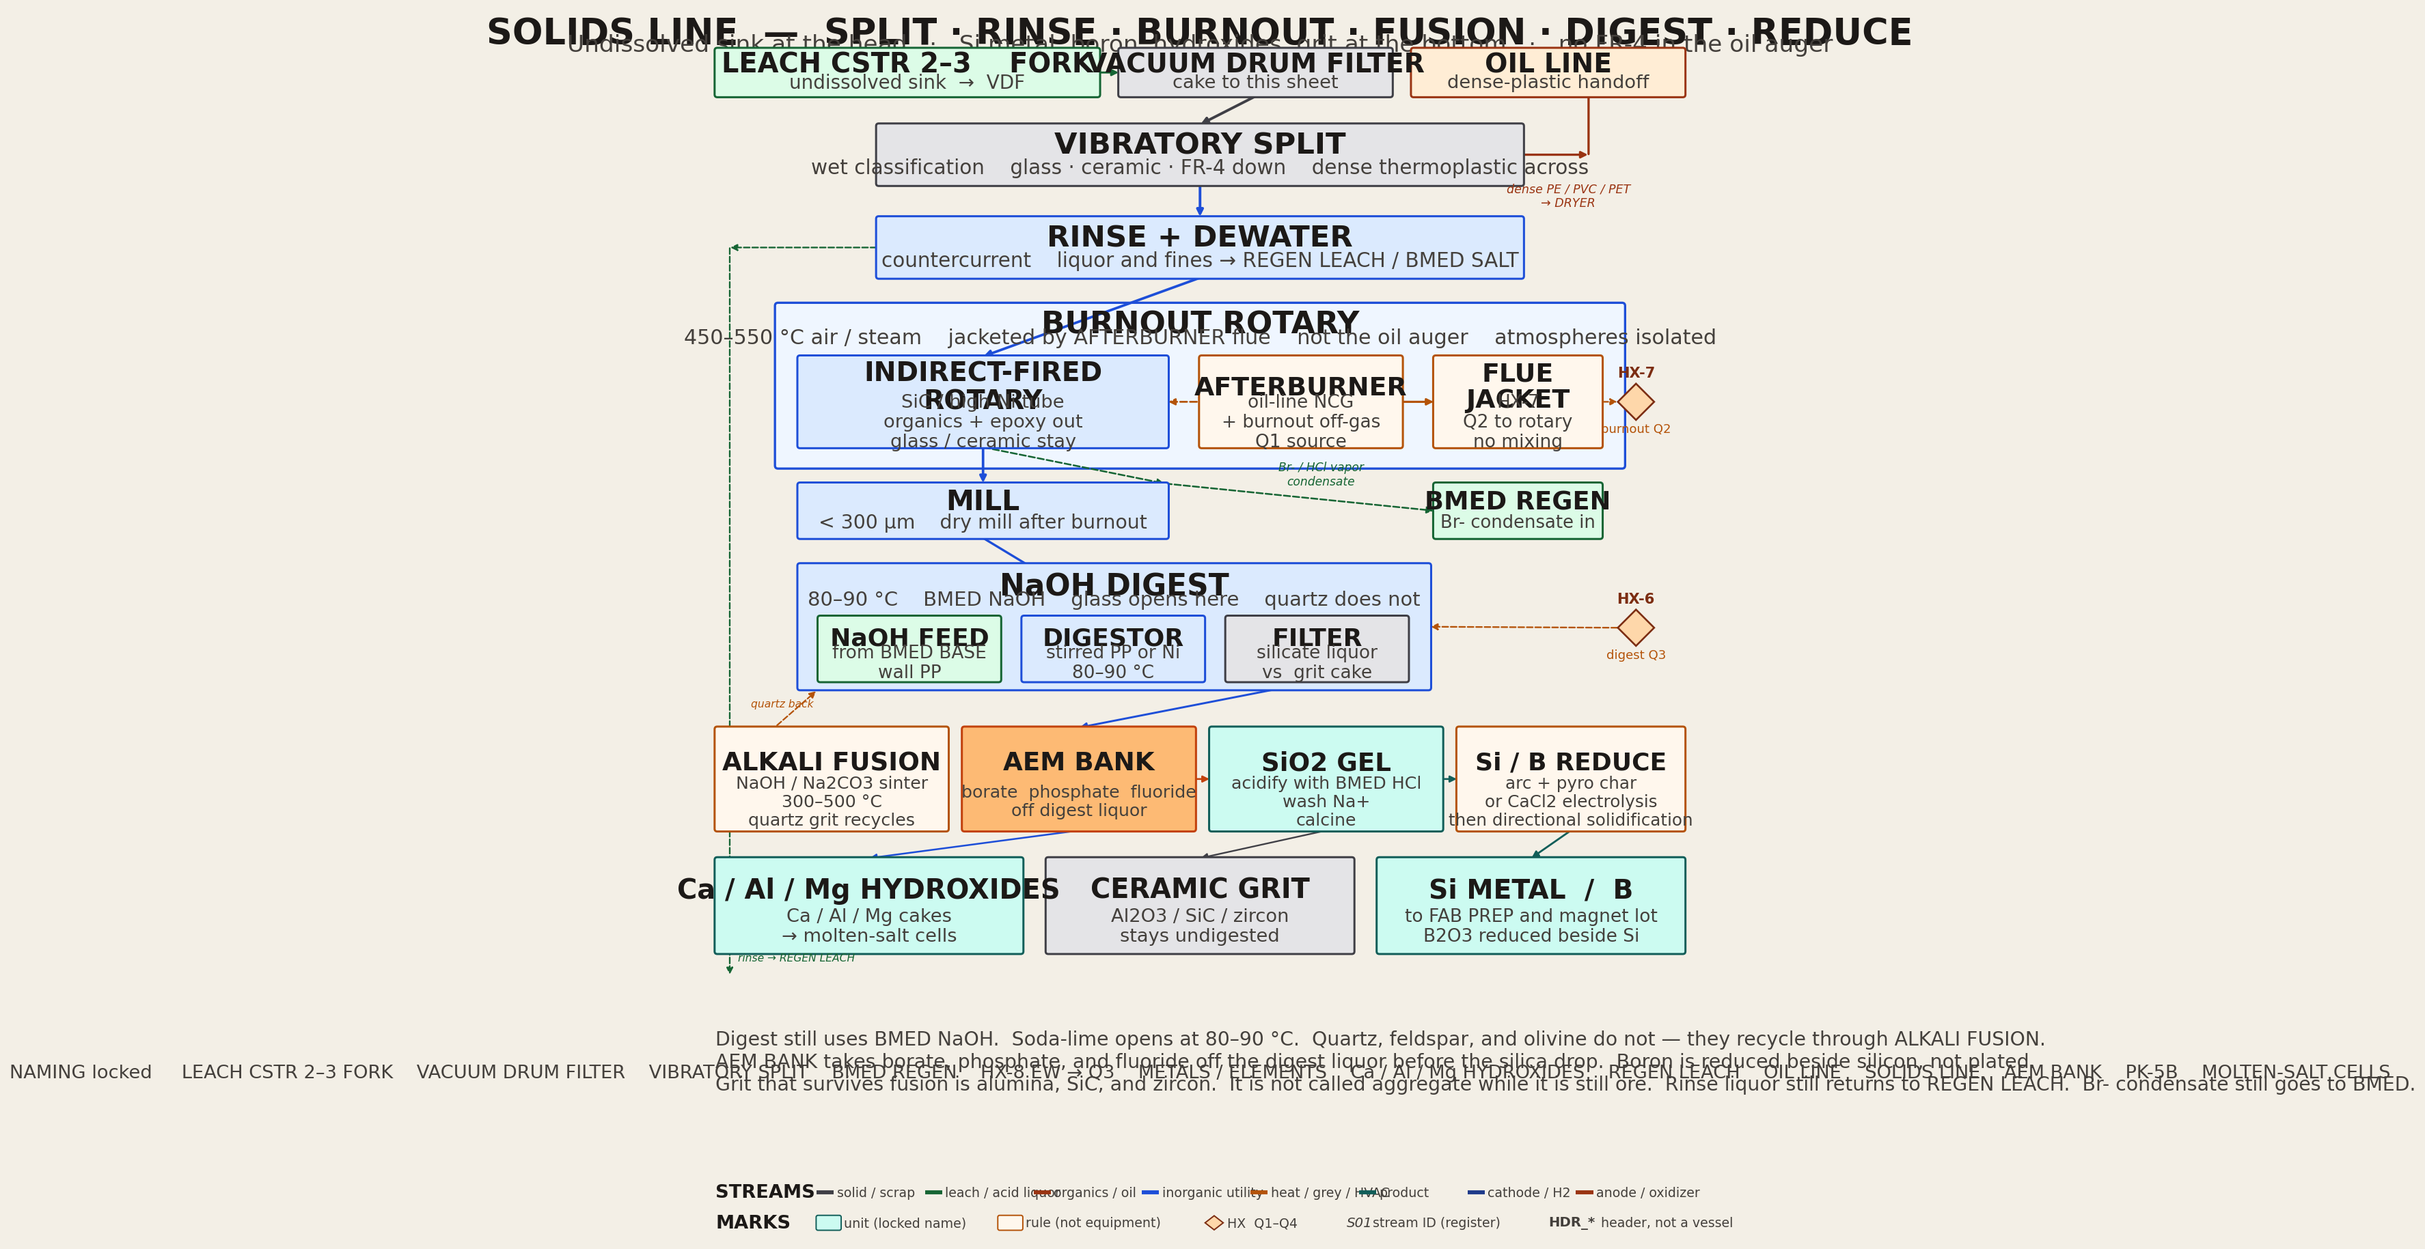
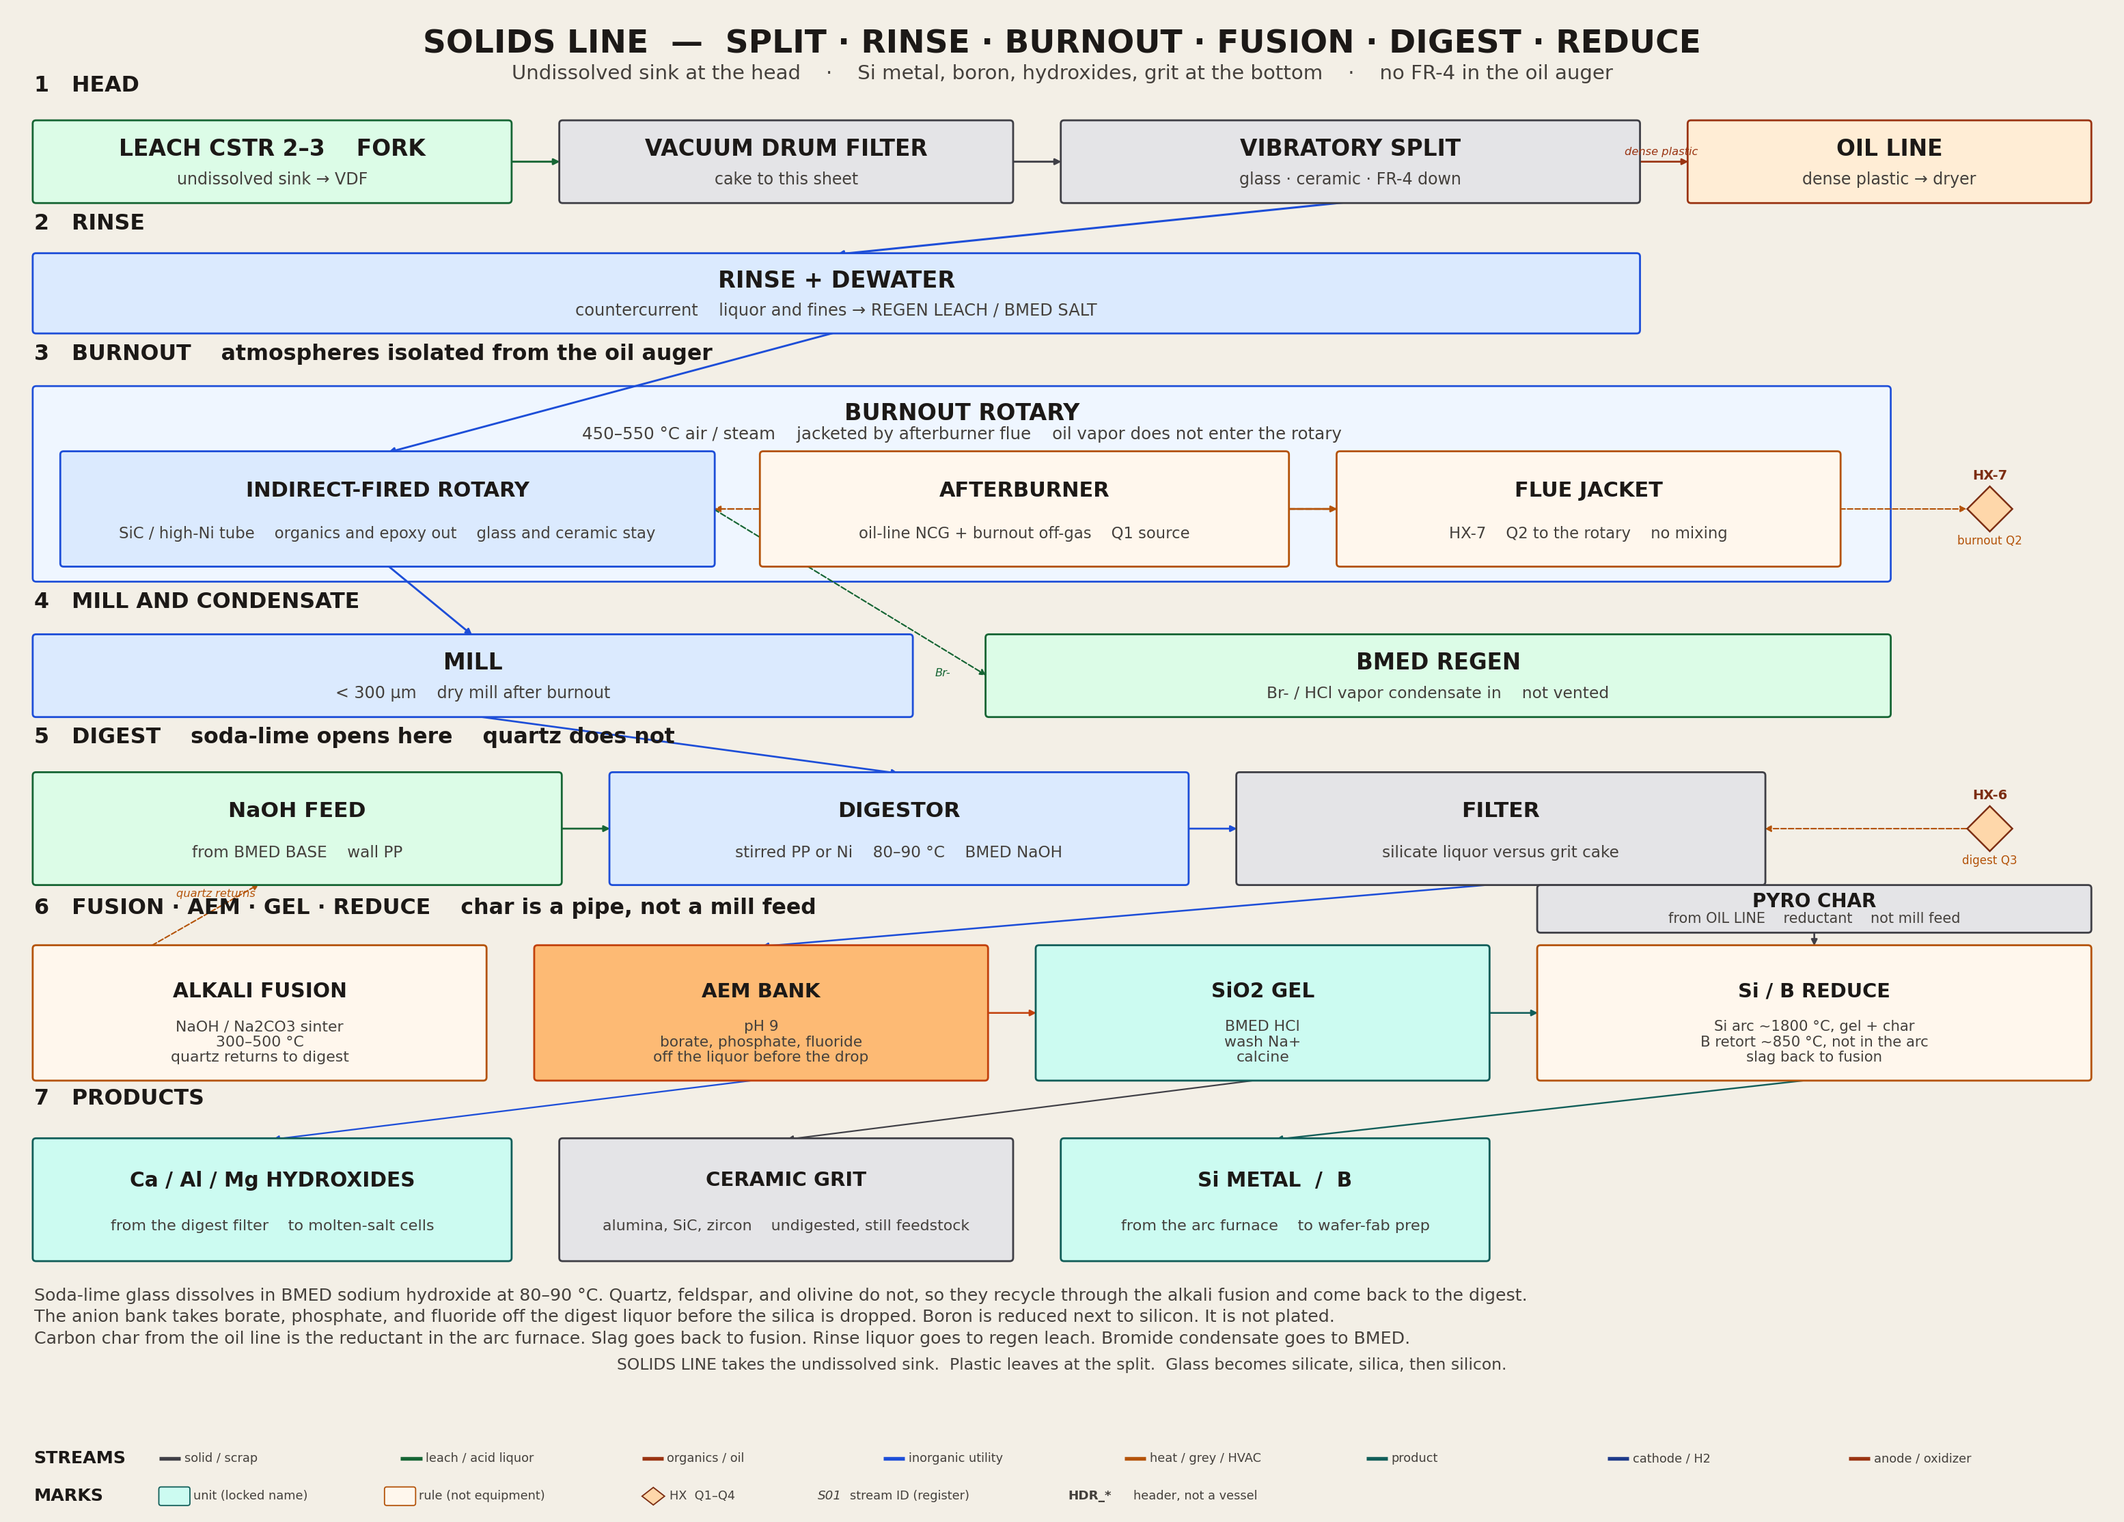
Split the silicon arc from the boron retort and the rare-earth retort from the chloride pots.
AQS-DUTY-007 defines CONC-ED, the solids line, the anion bank, the potassium split, the nitrogen scrub, PK-5B, the molten pots, and the two reduction vessels.

diff --git a/flow_graph/exporters/matplotlib/completion_pfd.py b/flow_graph/exporters/matplotlib/completion_pfd.py
@@ -1,0 +1,125 @@
+#!/usr/bin/env python3
+"""Completion sheet. CONC-ED and the units that were stubs on the trunk."""
+import sys
+from pathlib import Path
+sys.path.insert(0, str(Path(__file__).resolve().parent))
+
+import matplotlib.pyplot as plt
+import params as P
+from drawlib import box, cx, R, L, T, B, arrow, slabel, legend_strip
+
+fig, ax = plt.subplots(figsize=(34.0, 26.0), dpi=120)
+ax.set_xlim(0, 168)
+ax.set_ylim(-8.0, 124)
+ax.set_aspect("equal")
+ax.axis("off")
+fig.patch.set_facecolor(P.BG)
+ax.set_facecolor(P.BG)
+
+ax.text(84, 122.2, "CONC-ED  ·  SOLIDS LINE  ·  ANION AND METAL COMPLETION",
+        ha="center", va="top", fontsize=26, fontweight="bold", color=P.INK)
+ax.text(84, 119.2,
+        "Duties at the leach design point    2 m³/h at 2 g/L    concentrate 0.17 m³/h at 20 g/L",
+        ha="center", va="top", fontsize=15.5, color=P.MUTED)
+
+ax.text(2.0, 116.6, "1   CONC-ED    between the leach pump and EW-1    not an evaporator",
+        fontsize=17.2, fontweight="bold", color=P.INK)
+coal = box(ax, 2.0, 104.6, 38.0, 9.4, P.C_LE_F, P.C_LEACH, "COALESCER",
+           "CPVC    free oil off    no carbon", ts=16.6, ss=12.4)
+xf = box(ax, 44.0, 104.6, 40.0, 9.4, P.C_SOL_F, P.C_SOLID, "CROSSFLOW",
+         "alumina 0.2 µm    3 m/s\n25 m²    80 L/m²·h\ncake to sink dewater", ts=16.4, ss=12.2)
+stk = box(ax, 88.0, 104.6, 42.0, 9.4, P.C_CEM_F, P.C_CEM, "CEM STACK",
+          "20 pairs    0.25 m²\nTi / PbO2 anode\npH held under 1.5", ts=16.4, ss=12.2)
+ew = box(ax, 134.0, 104.6, 32.0, 9.4, P.C_PROD_F, P.C_PROD, "TO EW-1",
+         "0.17 m³/h at 20 g/L\n3.4 kg/h metal\n85 % of the cations", ts=16.2, ss=12.2)
+arrow(ax, R(coal), L(xf), P.C_LEACH, lw=1.5)
+arrow(ax, R(xf), L(stk), P.C_LEACH, lw=1.5)
+arrow(ax, R(stk), L(ew), P.C_PROD, lw=1.5)
+dil = box(ax, 88.0, 96.4, 42.0, 6.2, P.C_LE_F, P.C_LEACH, "DILUATE + dP BYPASS",
+          "both return to CSTR 1    CIP is BMED HCl only", ts=16.0, ss=12.2)
+arrow(ax, B(stk), T(dil), P.C_LEACH, lw=1.3, ls="--")
+
+ax.text(2.0, 93.8, "2   SOLIDS LINE    undissolved sink only",
+        fontsize=17.2, fontweight="bold", color=P.INK)
+rinse = box(ax, 2.0, 82.2, 30.0, 9.0, P.C_IN_F, P.C_INORG, "RINSE",
+            "liquor to regen leach", ts=16.4, ss=12.4)
+burn = box(ax, 36.0, 82.2, 32.0, 9.0, P.C_IN_F, P.C_INORG, "BURNOUT",
+           "450–550 °C    indirect\njacketed, not the oil pipe", ts=16.0, ss=12.0)
+mill = box(ax, 72.0, 82.2, 28.0, 9.0, P.C_IN_F, P.C_INORG, "MILL",
+           "dry    under 300 µm", ts=16.4, ss=12.4)
+dig = box(ax, 104.0, 82.2, 30.0, 9.0, P.C_LE_F, P.C_LEACH, "DIGEST",
+          "80–90 °C    BMED NaOH\nsoda-lime opens", ts=16.0, ss=12.0)
+fus = box(ax, 138.0, 82.2, 28.0, 9.0, P.C_HEAT_F, P.C_HEAT, "FUSION",
+          "300–500 °C sinter\nquartz recycles", ts=16.0, ss=12.0)
+arrow(ax, R(rinse), L(burn), P.C_INORG, lw=1.4)
+arrow(ax, R(burn), L(mill), P.C_INORG, lw=1.4)
+arrow(ax, R(mill), L(dig), P.C_INORG, lw=1.4)
+arrow(ax, R(dig), L(fus), P.C_HEAT, lw=1.3, ls="--")
+
+ax.text(2.0, 79.6, "3   AEM BANK    two feeds    arsenic does not enter",
+        fontsize=17.2, fontweight="bold", color=P.INK)
+brine = box(ax, 2.0, 66.8, 38.0, 10.2, P.C_LE_F, P.C_LEACH, "POST-POLISH BRINE",
+            "raise to pH 9 with BMED NaOH\nborate as B(OH)4−", ts=16.2, ss=12.2)
+sil = box(ax, 44.0, 66.8, 36.0, 10.2, P.C_IN_F, P.C_INORG, "DIGEST LIQUOR",
+          "already alkaline\nbefore the silica drop", ts=16.2, ss=12.2)
+aem = box(ax, 84.0, 66.8, 40.0, 10.2, P.C_AEM_F, P.C_AEM, "AEM STACK",
+          "PP frame    anion film\ndiluate to BMED salt", ts=16.2, ss=12.2)
+cuts = box(ax, 128.0, 66.8, 38.0, 10.2, P.C_PROD_F, P.C_PROD, "CUTS",
+           "B2O3 to the furnace\nphosphate to the farm\nfluoride to the HF cell", ts=15.6, ss=11.8)
+arrow(ax, R(brine), L(sil), P.C_LEACH, lw=1.3)
+arrow(ax, R(sil), L(aem), P.C_AEM, lw=1.4)
+arrow(ax, R(aem), L(cuts), P.C_PROD, lw=1.4)
+
+ax.text(2.0, 64.2, "4   K SPLIT    then N SCRUB",
+        fontsize=17.2, fontweight="bold", color=P.INK)
+ks = box(ax, 2.0, 52.4, 52.0, 9.2, P.C_LE_F, P.C_LEACH, "K SPLIT",
+         "PP crystallizer    5–10 °C\nKCl to the farm    NaCl liquor to BMED", ts=16.6, ss=12.4)
+ns = box(ax, 58.0, 52.4, 52.0, 9.2, P.C_SOL_F, P.C_SOLID, "N SCRUB",
+         "packed tower    BMED HCl\nNH3 to NH4Cl for the farm\nNOx stays on the alk scrubber", ts=16.2, ss=12.0)
+arrow(ax, (28.0, 61.6), T(ks), P.C_LEACH, lw=1.2)
+
+ax.text(2.0, 49.8, "5   PK-5B    batch lot    not a flow cell",
+        fontsize=17.2, fontweight="bold", color=P.INK)
+dis = box(ax, 2.0, 37.6, 38.0, 9.6, P.C_IN_F, P.C_INORG, "DISSOLVE",
+          "oxalate cake in BMED HCl", ts=16.4, ss=12.4)
+ds = box(ax, 44.0, 37.6, 40.0, 9.6, P.C_SOL_F, P.C_SOLID, "DOUBLE SULFATE",
+         "sulfate from the anion bank\nLa–Ce drops    Nd group stays", ts=16.2, ss=12.2)
+ox = box(ax, 88.0, 37.6, 40.0, 9.6, P.C_PROD_F, P.C_PROD, "OXALATE CUTS",
+         "stepped pH\nNd/Pr    then Dy/Tb\ncalcine to oxide", ts=16.2, ss=12.2)
+arrow(ax, R(dis), L(ds), P.C_INORG, lw=1.4)
+arrow(ax, R(ds), L(ox), P.C_PROD, lw=1.4)
+
+ax.text(2.0, 35.0, "6   MOLTEN SALT    three pots and one retort    not a series",
+        fontsize=17.2, fontweight="bold", color=P.INK)
+al = box(ax, 2.0, 21.4, 39.0, 11.0, P.C_HEAT_F, P.C_HEAT, "Al POT",
+         "calcine to alumina\nchar + Cl2 to AlCl3\nelectrolyze near 700 C", ts=15.8, ss=11.8)
+mg = box(ax, 44.0, 21.4, 39.0, 11.0, P.C_HEAT_F, P.C_HEAT, "Mg POT",
+         "dehydrate under HCl\nanhydrous MgCl2\nelectrolyze near 700 C", ts=15.8, ss=11.8)
+ca = box(ax, 86.0, 21.4, 39.0, 11.0, P.C_HEAT_F, P.C_HEAT, "Ca POT",
+         "CaCl2 near 800 C\ncontact cathode\nmetal withdrawn as it forms", ts=15.6, ss=11.6)
+ree = box(ax, 128.0, 21.4, 38.0, 11.0, P.C_HEAT_F, P.C_HEAT, "REE RETORT",
+          "not a pot\noxide + Ca, 900 to 1100 C\nCaO slag back to the Ca feed", ts=15.6, ss=11.6)
+arrow(ax, B(ox), T(ree), P.C_PROD, lw=1.25)
+arrow(ax, L(ree), R(ca), P.C_HEAT, lw=1.15, ls="--")
+slabel(ax, 124.0, 26.8, "Ca metal", P.C_HEAT, size=9.0)
+
+ax.text(2.0, 18.8, "7   SILICON ARC AND BORON RETORT    boron does not enter the arc",
+        fontsize=17.2, fontweight="bold", color=P.INK)
+gel = box(ax, 2.0, 6.4, 36.0, 10.0, P.C_PROD_F, P.C_PROD, "SILICA GEL",
+          "BMED HCl, wash Na+, calcine", ts=16.0, ss=12.0)
+arc = box(ax, 42.0, 6.4, 42.0, 10.0, P.C_HEAT_F, P.C_HEAT, "SILICON ARC",
+          "gel + char, near 1800 C\nSiO2 + 2C to Si + 2CO\nslag to fusion", ts=15.6, ss=11.8)
+sol = box(ax, 88.0, 6.4, 36.0, 10.0, P.C_PROD_F, P.C_PROD, "SOLIDIFY",
+          "silicon only\ndrops Fe, Al, Ca\nto fab prep", ts=16.0, ss=12.0)
+bor = box(ax, 128.0, 6.4, 38.0, 10.0, P.C_HEAT_F, P.C_HEAT, "BORON RETORT",
+          "B2O3 + Mg or Ca, near 850 C\nHCl leach of the oxide\npowder out", ts=15.6, ss=11.6)
+arrow(ax, R(gel), L(arc), P.C_PROD, lw=1.4)
+arrow(ax, R(arc), L(sol), P.C_PROD, lw=1.4)
+arrow(ax, (147.0, 66.8), (147.0, 16.4), P.C_PROD, lw=1.15)
+arrow(ax, (147.0, 16.4), T(bor), P.C_PROD, lw=1.15)
+
+ax.text(84.0, 4.6, "Aqueous cells do not make Al, Mg, Ca, Li, Ti, Si, or the rare earths.",
+        ha="center", va="bottom", fontsize=13.2, color=P.MUTED)
+legend_strip(ax, 2.0, -5.6, w=164.0, include=("streams", "marks", "membranes"))
+fig.savefig(P.ROOT / "completion_pfd.png", dpi=120, facecolor=fig.get_facecolor(), bbox_inches="tight")
+print("wrote", P.ROOT / "completion_pfd.png")

diff --git a/flow_graph/exporters/matplotlib/wet_line_factory_pfd.py b/flow_graph/exporters/matplotlib/wet_line_factory_pfd.py
@@ -358,13 +358,12 @@ _reg = ia_register_lines(_SEC.values())
 ax.text(2.0, -14.6, "7   ANIONS · SPLIT · MOLTEN · REDUCE    vessel / acid / return",
         fontsize=14.5, fontweight="bold", color=P.INK)
 ax.text(2.0, -16.0,
-        "AEM BANK: PP frame, AEM-CAST film stub. No acid in the cut. HCl CIP only. Borate/phosphate/sulfate/fluoride concentrate → farm. Diluate → BMED salt. As is not this cut.\n"
-        "K SPLIT: cooled PP crystallizer. No acid. KCl → farm. NaCl brine → BMED.\n"
-        "N SCRUB: packed tower on burnout and pyro headers. Wall waits on POL-VCM. BMED HCl. NH4 salt → farm.\n"
-        "PK-5B: PP lot tank, not a flow cell. Oxalic / HCl redissolve. Nd/Pr/Dy/Tb and La–Ce lots → molten cells. Mother liquor → CSTR 1.\n"
-        "MOLTEN-SALT: dry chloride cell, graphite shell. No aqueous acid. Metal out. Cl2 → alk scrubber.\n"
-        "Si / B REDUCE: arc furnace. Char pipe from OIL LINE pyro. No aqueous EW. Si → FAB PREP. Slag → alkali fusion.\n"
-        "AEM-CAST and POL-VCM are the first copy-stoppers. Neither is on site.",
+        "AEM BANK: two feeds, post-polish brine raised to pH 9 and digest liquor. Borate to B2O3, phosphate to farm, fluoride to the HF cell. Diluate to BMED salt. Arsenic does not enter.\n"
+        "K SPLIT: PP crystallizer, 5 °C to 10 °C. KCl to farm. NaCl liquor to BMED.\n"
+        "N SCRUB: packed tower on burnout and pyro gas. BMED HCl. NH4Cl to farm. NOx stays on the alkaline scrubber.\n"
+        "PK-5B: batch PP lot tank. Dissolve oxalate in HCl. La–Ce double sulfate. Nd/Pr and Dy/Tb oxalate lots, calcined, to the retort.\n"
+        "MOLTEN SALT: Al and Mg pots near 700 °C. Ca pot near 800 °C, contact cathode. REE is a Ca retort at 900 °C to 1100 °C, not a pot. Cl2 from the pots to the CRU.\n"
+        "SILICON ARC: gel + char near 1800 °C, then directional solidification. BORON RETORT: B2O3 + Mg or Ca near 850 °C. Boron does not enter the arc. Slag to fusion.",
         ha="left", va="top", fontsize=11.2, color=P.MUTED, linespacing=1.18)
 ax.text(2.0, -22.4, f"GRAPH WET/REC  ({_GP})  ·  null rates stay null", fontsize=10.8, fontweight="bold", color=P.INK)
 for i, line in enumerate(list(_reg)[:6]):

diff --git a/docs-authority/COMPLETION_DUTIES.md b/docs-authority/COMPLETION_DUTIES.md
@@ -1,0 +1,53 @@
+# Completion duties
+
+AQS-DUTY-007. Plant rate is the assumptions-sheet point: leach discharge 2 m³/h at 2 g/L dissolved metal. Concentrate to EW-1 is 0.17 m³/h at 20 g/L. Energy may be external. Mass in is waste or natural feedstock only.
+
+These units are parallel where the feeds differ. They are not a second electrowinning aisle.
+
+## CONC-ED
+
+CONC-ED sits between the leach pump and EW-1. It is not an evaporator.
+
+The train is a CPVC coalescer, an alumina crossflow, then a cation-exchange stack. The coalescer takes free oil. No activated carbon: chlorate attacks it. The crossflow is 0.2 µm alumina, 3 m/s, 25 m², 80 L/m²·h. Cake backflushes to sink dewater. The stack is 20 pairs, 0.25 m² each, 5 m² installed. Anode is titanium with a lead-dioxide coat. Liquor is held under pH 1.5 so iron stays dissolved. Clean-in-place is hydrochloric acid from BMED only. Caustic drops iron in the housing. A high differential-pressure bypass returns to LEACH CSTR 1. Diluate returns to LEACH CSTR 1. The concentrate carries 85 % of the cations, 3.4 kg/h dissolved metal, into EW-1.
+
+## Solids line
+
+The solids line takes undissolved sink only. Dense plastic leaves at the vibratory split and does not enter burnout.
+
+Order: countercurrent rinse, indirect burnout at 450 °C to 550 °C, dry mill under 300 µm, digest at 80 °C to 90 °C in BMED sodium hydroxide, alkali fusion of what the digest does not open. Soda-lime glass opens in the digest. Quartz, feldspar, and olivine do not. They recycle through a sodium hydroxide or sodium carbonate sinter at 300 °C to 500 °C and return to the digest. Grit that survives both steps is alumina, silicon carbide, and zircon. Rinse liquor returns to regen leach. Bromide condensate from the burnout goes to BMED.
+
+## AEM bank
+
+Two feeds. Post-polish brine is acidic. It is raised to pH 9 with BMED sodium hydroxide so borate moves as B(OH)₄⁻ and phosphate as HPO₄²⁻. Digest liquor is already alkaline and is cut before the silica drop. The stack is a polypropylene frame with an anion-exchange film. Diluate goes to the BMED salt feed. Borate concentrate is acidified and calcined to boron oxide for the boron retort. Phosphate goes to the farm. Sulfate goes to the PK-5B double-sulfate cut; excess goes to BMED. Fluoride goes to the HF electrodialysis cell, not the farm. Arsenic does not enter this stack.
+
+## K split
+
+Polypropylene cooled crystallizer, 5 °C to 10 °C, on the sodium–potassium brine after the anion bank and before BMED. Potassium chloride crystallizes and goes to the farm. The mother liquor is sodium chloride and goes to the BMED salt chamber.
+
+## N scrub
+
+Packed tower on burnout off-gas and pyrolyzer non-condensables, after the demister. BMED hydrochloric acid absorbs ammonia from nylon, resin, and biomass. Product is ammonium chloride to the farm. Nitrogen oxides are not this tower. They stay on the alkaline scrubber. There is no Haber loop on this sheet.
+
+## PK-5B
+
+Batch polypropylene lot tank. Not a flow cell. The PK-5 oxalate cake is dissolved in BMED hydrochloric acid. Sodium sulfate from the anion bank precipitates the lanthanum–cerium double sulfate. Neodymium/praseodymium and dysprosium/terbium stay in the liquor, are reprecipitated as oxalates at stepped pH, and are calcined to oxide lots. The lots go to the calciothermic retort. Oxalic acid is a consumable until a synthesis row exists.
+
+## Molten-salt cells
+
+Four duties. Three are electrolytic pots. One is a retort. They do not feed each other in series. The shared return is chlorine to the chlorate unit. No aqueous acid enters a pot. Aqueous cells do not make aluminum, magnesium, calcium, or the rare earths.
+
+Aluminum. The hydroxide cake is calcined to alumina. Alumina is chlorinated with pyro char and recycled chlorine at about 800 °C to aluminum chloride. The chloride is electrolyzed in an aluminum chloride–sodium chloride melt near 700 °C. Graphite anode. Graphite or steel cathode. Chlorine returns to the chlorate unit and to the chlorinator.
+
+Magnesium. The hydroxide is converted to chloride and dehydrated to anhydrous magnesium chloride under hydrogen chloride, so it does not hydrolyze to oxide. The anhydrous salt is electrolyzed in a magnesium chloride–sodium chloride melt near 700 °C. Steel cathode. Graphite anode. Chlorine returns to the chlorate unit.
+
+Calcium. Calcium chloride is electrolyzed near 800 °C on a contact cathode. Calcium dissolves in its own chloride if it is left in the melt, so the metal is withdrawn as it forms. Part of the calcium is product. Part is the reductant for the rare-earth lots.
+
+Rare earths. This is not an electrolytic pot. Oxide lots from PK-5B are reduced with calcium metal in a sealed steel retort at 900 °C to 1100 °C. Slag is calcium oxide and returns to the calcium-pot feed. Chlorine is not made in the retort.
+
+## Silicon and boron
+
+Two vessels. Boron oxide does not enter the silicon arc. It reports to the slag and contaminates the silicon.
+
+Silicon. Washed, calcined silica gel plus pyro char in a submerged arc at about 1800 °C. The reaction is SiO₂ + 2C → Si + 2CO. Carbon monoxide goes to the gas header. Slag returns to alkali fusion. Metallurgical silicon is then directionally solidified to drop iron, aluminum, and calcium. That step does not refine boron.
+
+Boron. Boron oxide from the anion bank is reduced in a retort with magnesium or calcium at about 850 °C. The oxide slag is leached with BMED hydrochloric acid. Boron powder is the product. The leached magnesium or calcium salt returns to the matching pot feed.
